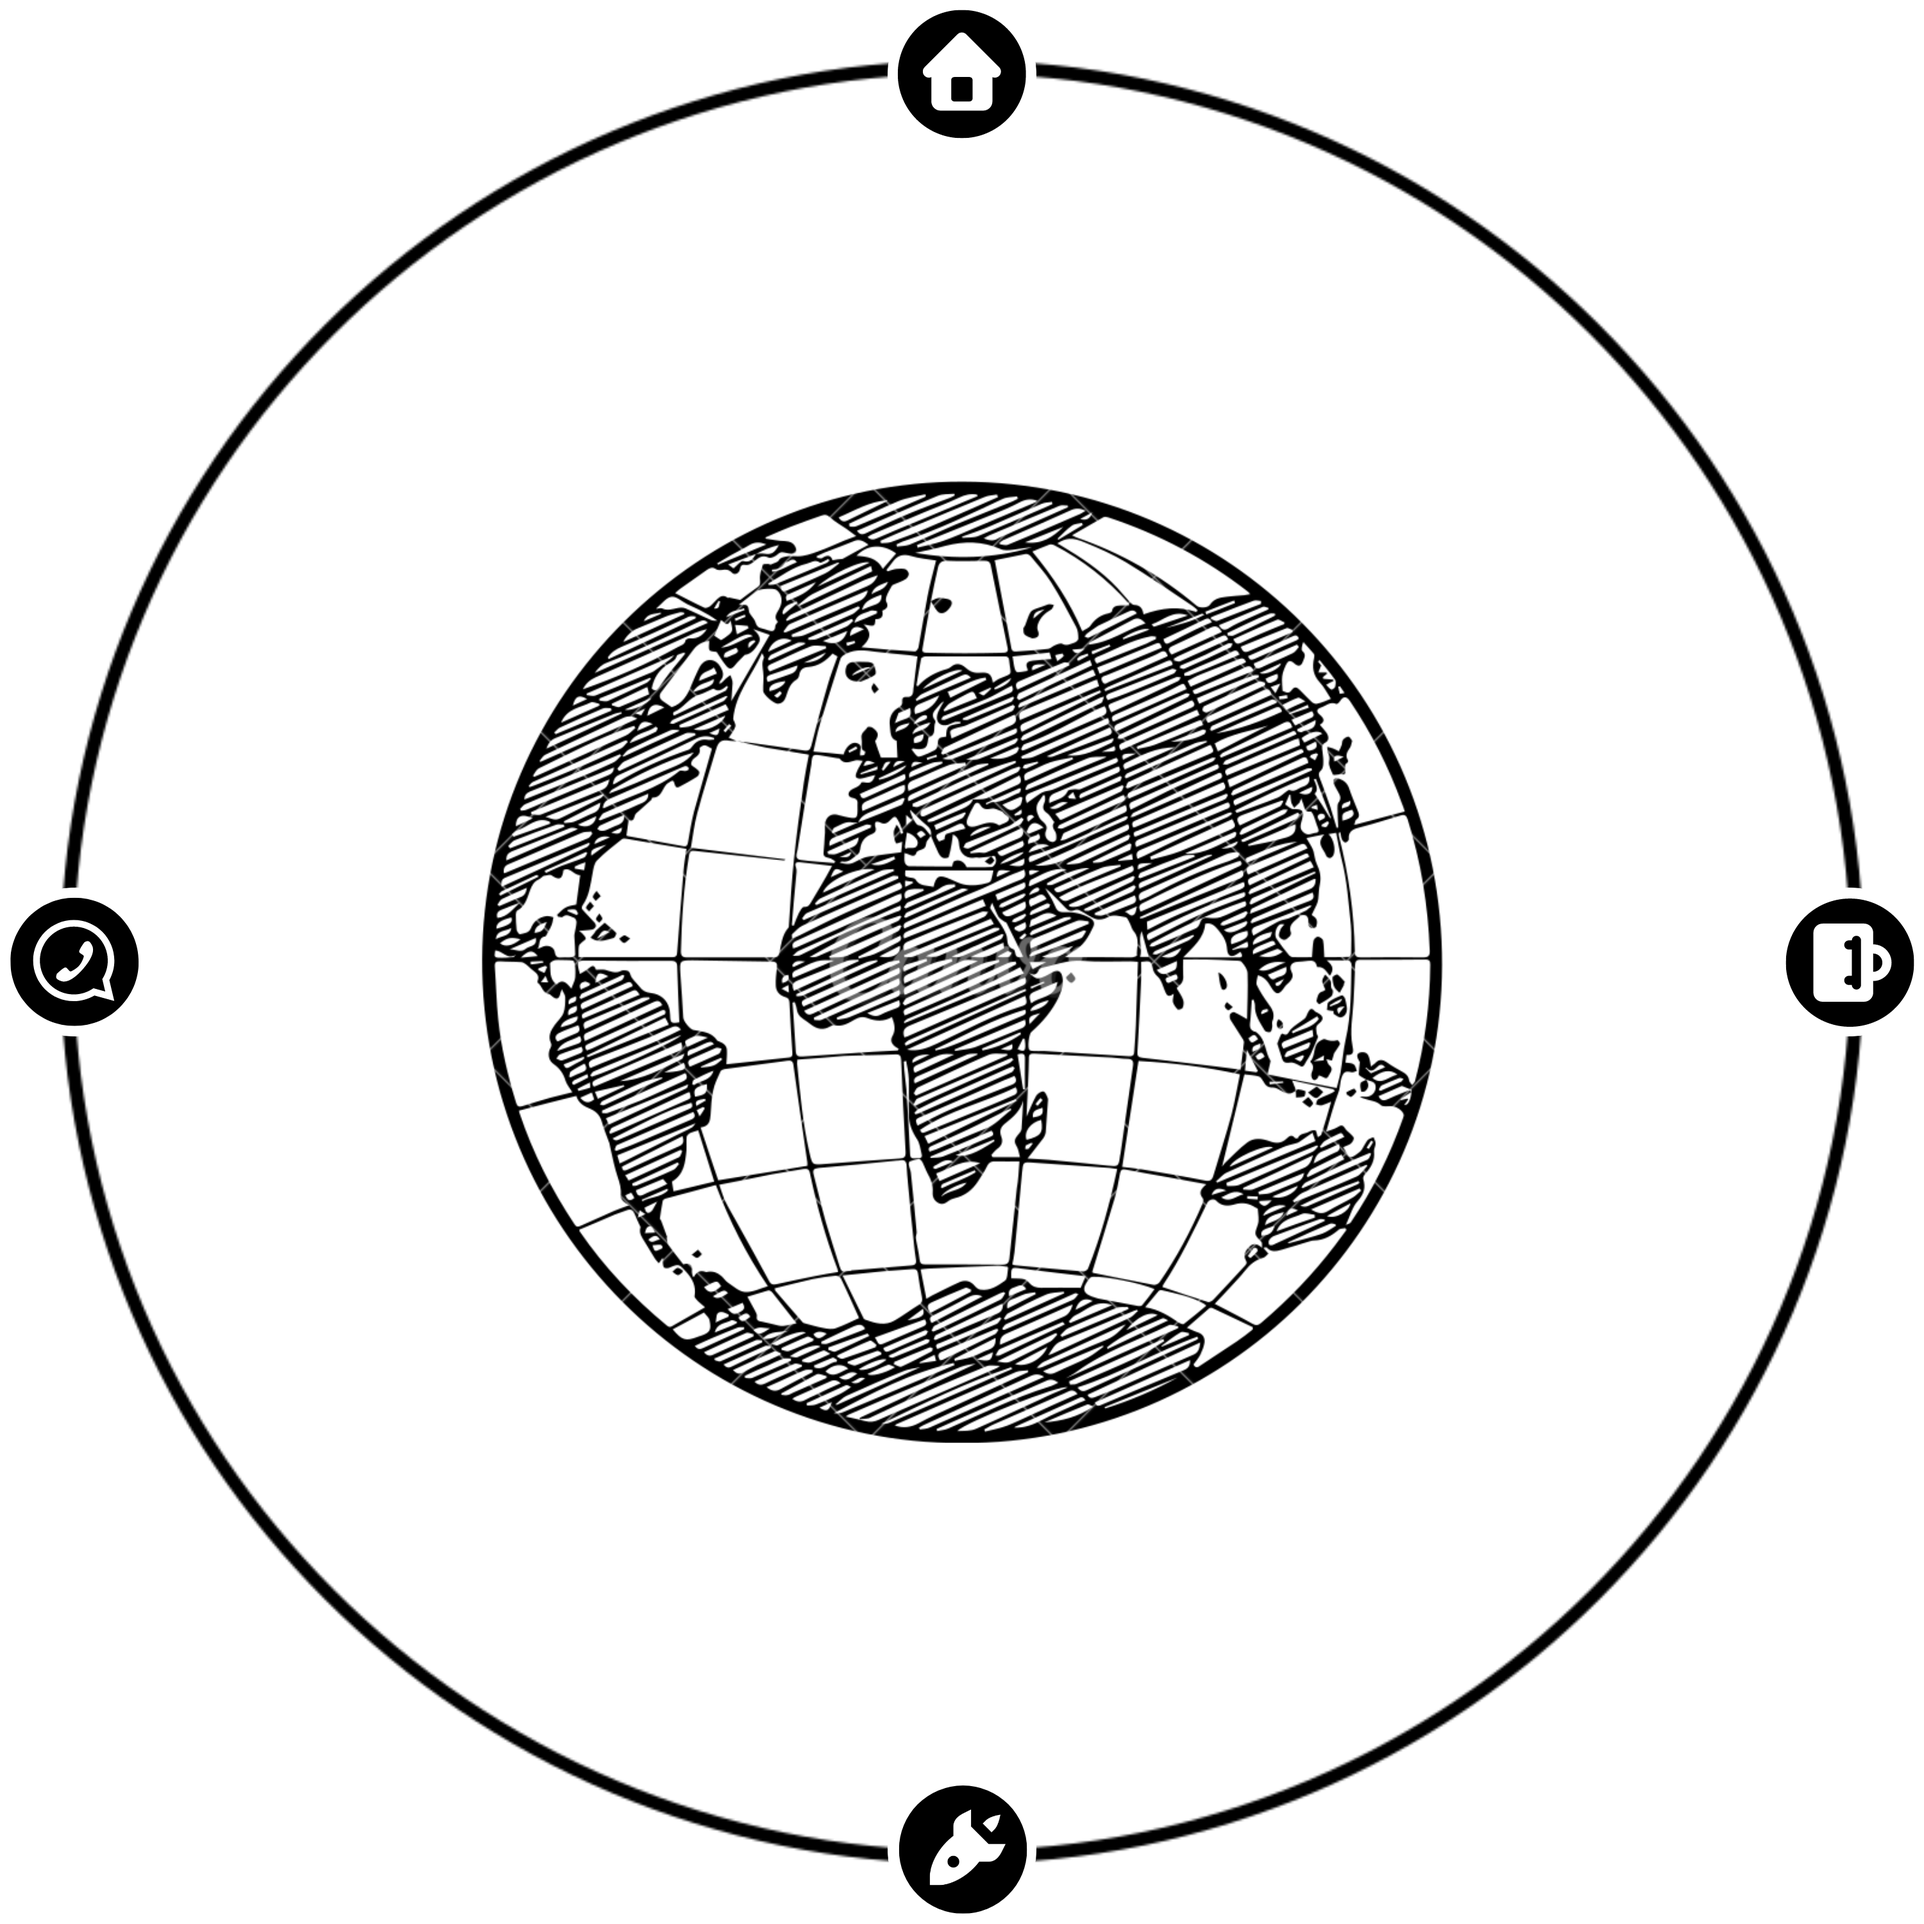
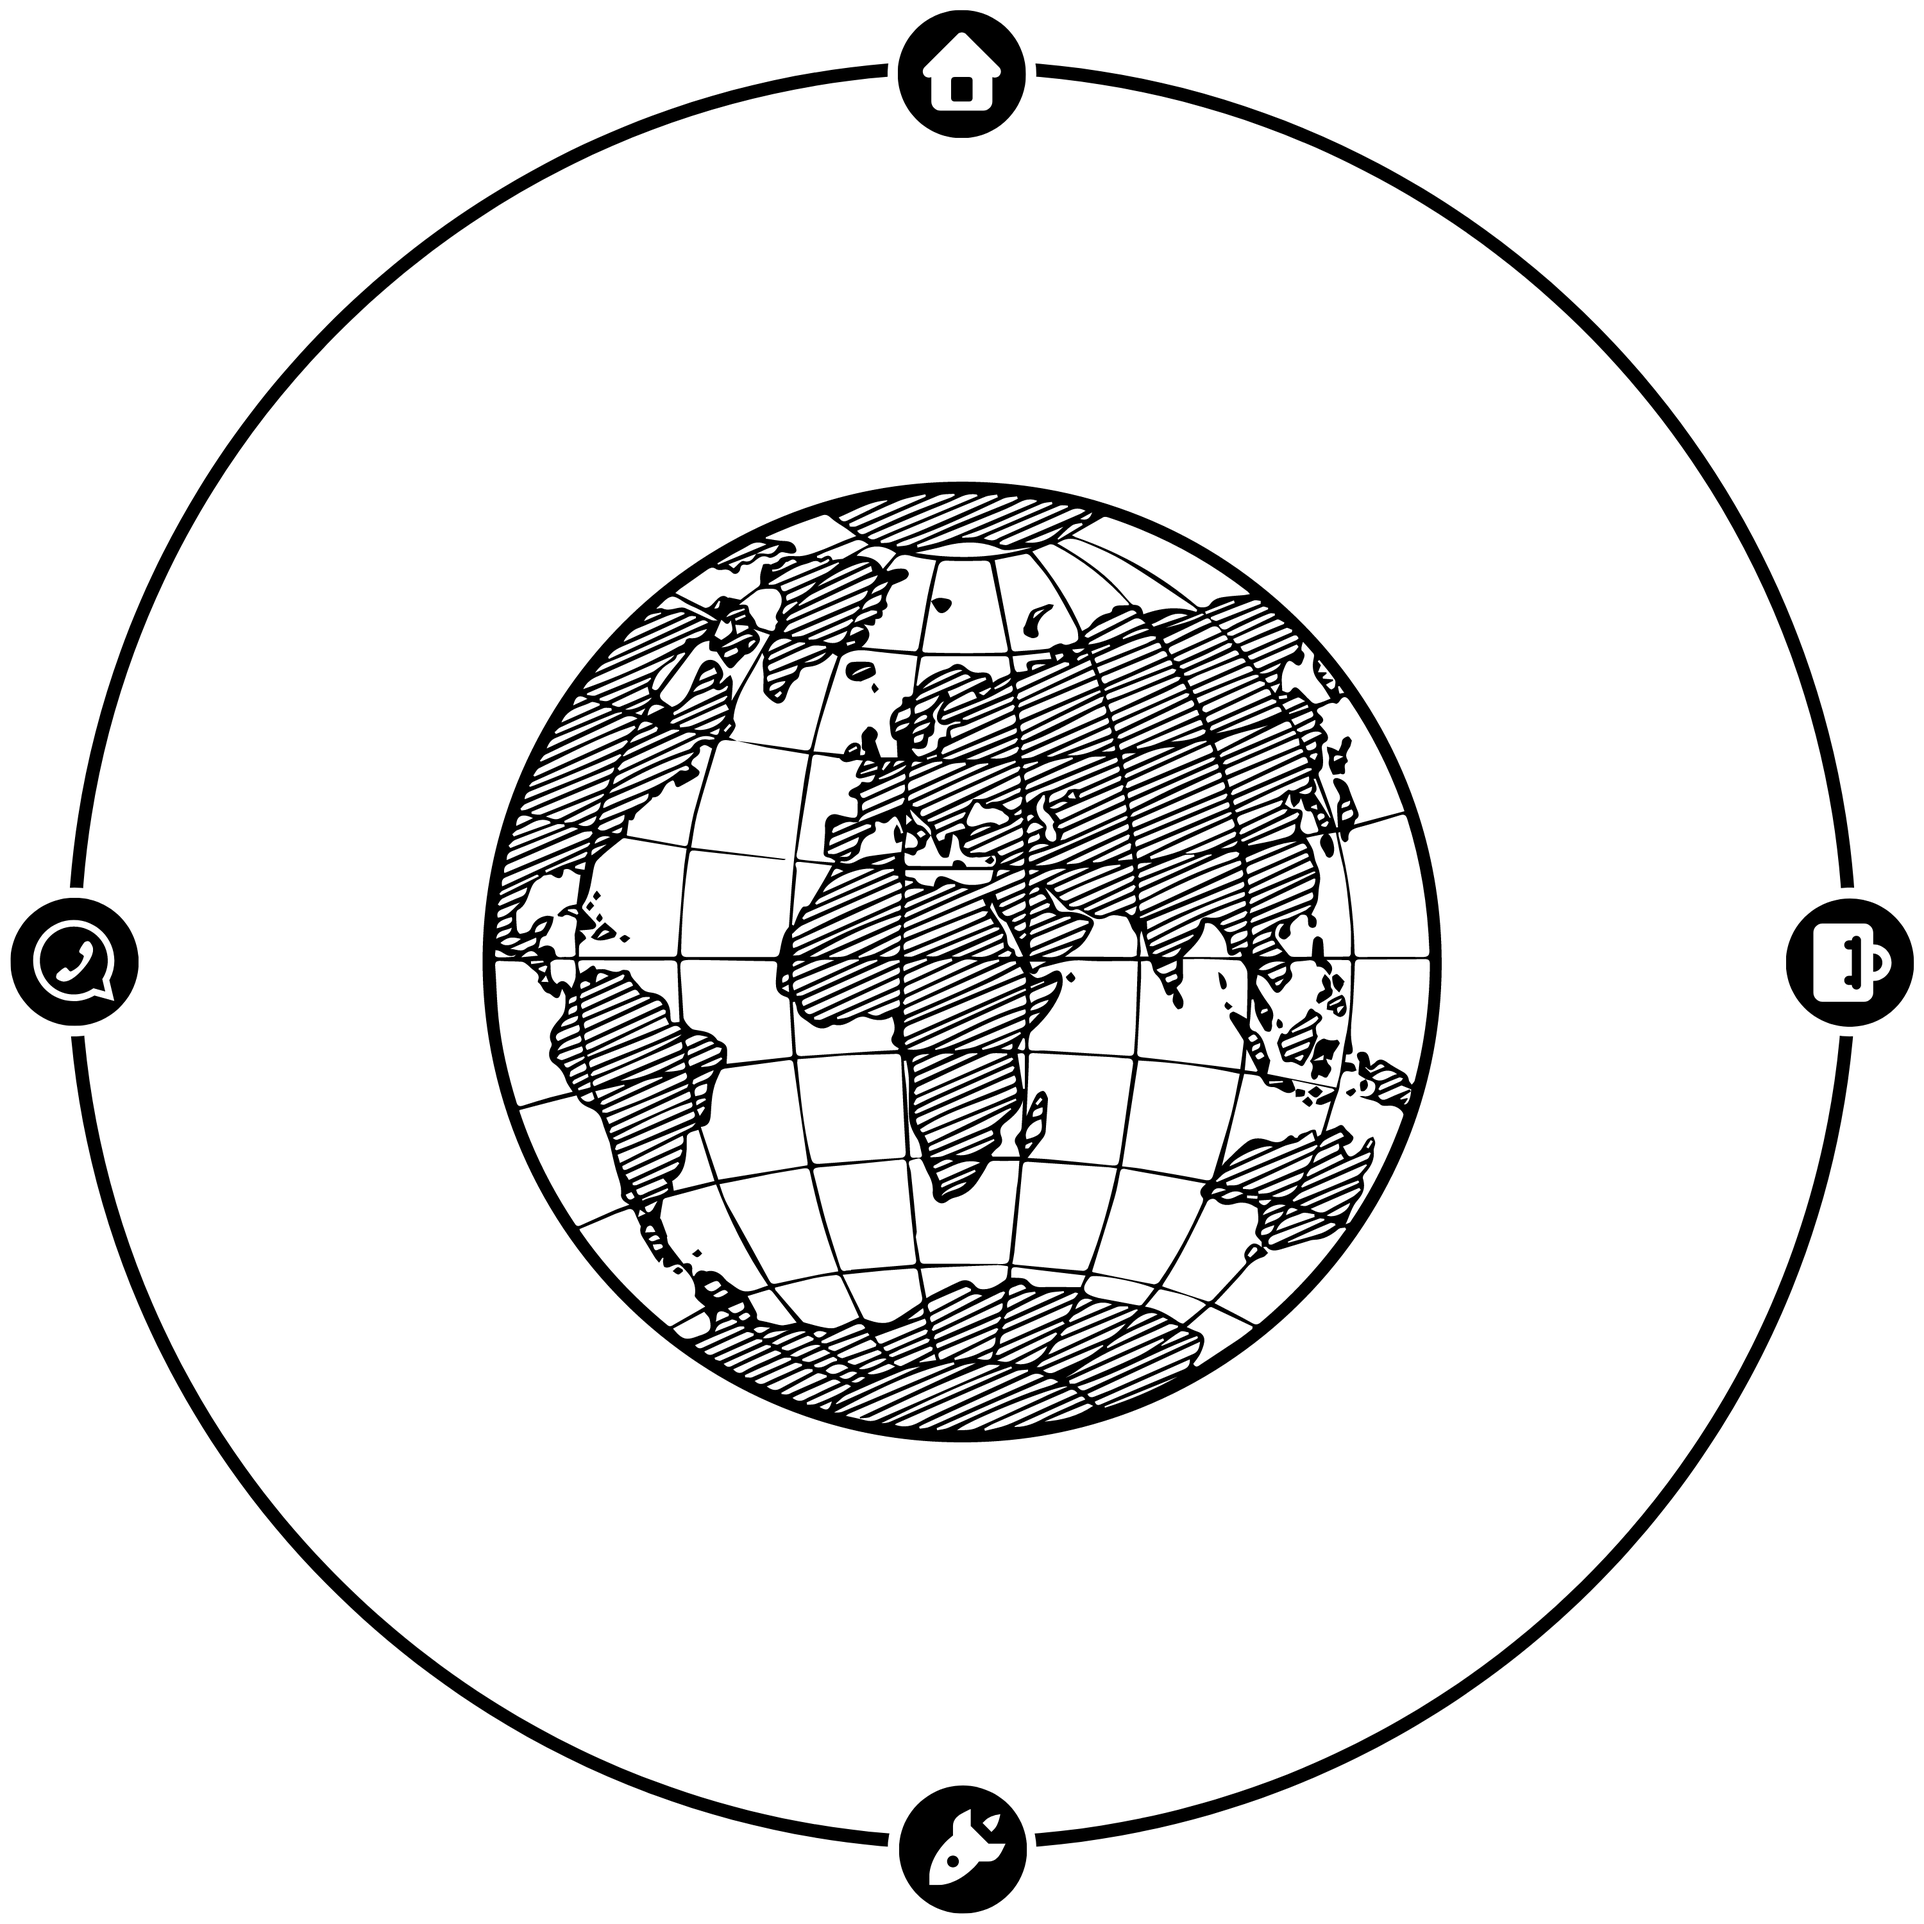
uploaded dogs

diff --git a/app.js b/app.js
@@ -21,6 +21,7 @@ let contentDegree = 0;
 let isCharacterMoving = false;
 let timer = null;
 let spinSpeed = 2;
+let frame = 1;
 
 const introText = "Hi I'm Jeshua.";
 const aboutText = 'I love tinkering across the whole stack.';
@@ -138,7 +139,9 @@ const moveCharacter = () => {
 };
 
 addEventListener('wheel', (e) => {
-  !isCharacterMoving ? moveCharacter() : '';
+  character.src = `.images/dog${frame}.png`;
+  frame === 10 ? (frame = 1) : frame++;
+  //   !isCharacterMoving ? moveCharacter() : '';
   if (e.deltaY < 0) {
     degree += spinSpeed;
     contentDegree += spinSpeed;

diff --git a/index.html b/index.html
@@ -320,7 +320,7 @@
         <img src="./images/dog-stopped.png" alt="" id="character" />
       </div>
 
-      <img src="./images/earth3.png" id="earth" alt="" />
+      <img src="./images/earth.png" id="earth" alt="" />
     </section>
 
     <script src="app.js"></script>

diff --git a/style.css b/style.css
@@ -365,7 +365,7 @@ body {
   background-repeat: no-repeat;
   background-size: cover;
 
-  background-image: url('./images/splatter.png');
+  background-image: url('./images/bg1.png');
   z-index: -1;
 }
 
